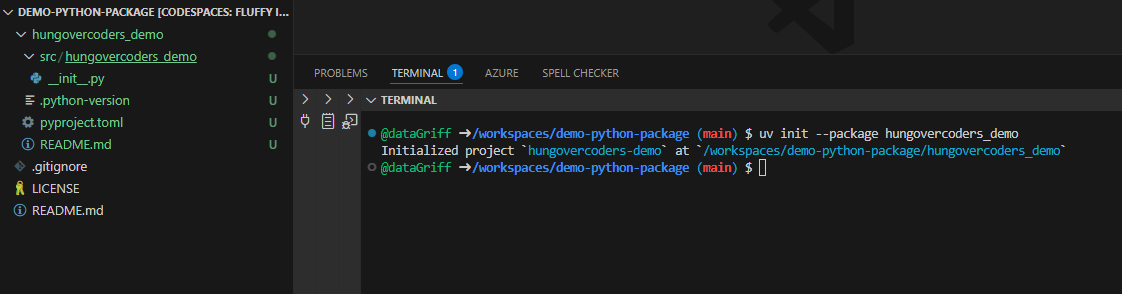
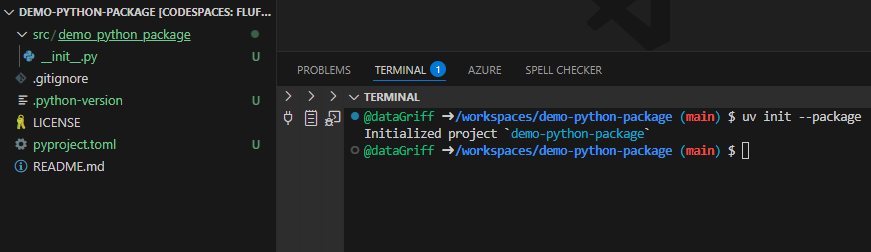
Refactor code structure for improved readability and maintainability

diff --git a/docs/_posts/2025-08-15-simplify-python-package-development-with-uv-and-taskfile/2025-08-15-simplify-python-package-development-with-uv-and-taskfile.md b/docs/_posts/2025-08-15-simplify-python-package-development-with-uv-and-taskfile/2025-08-15-simplify-python-package-development-with-uv-and-taskfile.md
@@ -51,10 +51,12 @@ uv --version
 Next create your package using the `--package` argument for your uv init command. This means you are creating package.
 
 ```bash
-uv init --package hungovercoders_demo
+uv init --package
 ```
 
 ![UV Install]({{ site.baseurl }}/assets/2025-08-15-simplify-python-package-development-with-uv-and-taskfile/uv_initiate_package.PNG)
+
+You can provide a name for the package as an argument as well, but I have deliberately not provided one so that toml file ends up in the root along with the src directory. This does mean your github repo naming is important to reflect the name of the package. This later allows us to treat the github repo directly as a package and we can install from it using pip install without needing to publish to pypi. This is very handy for a quick turnaround and testing of our package!
 
 You can also initiate apps, libraries or completely bare python projects using uv. Use the following command to see what's on offer.
 
@@ -62,7 +64,82 @@ You can also initiate apps, libraries or completely bare python projects using u
 uv init --help
 ```
 
-### Add some Code to the Package
+### Run the package locally
+
+The package comes initiated with one main method in the code `src/hungovercoders_demo/__init__.py`
+
+```python
+def main() -> None:
+    print("Hello from demo-python-package!")
+```
+
+To try this out we can run the package using uv
+
+```bash
+uv run demo-python-package
+```
+
+![UV Run Package]({{ site.baseurl }}/assets/2025-08-15-simplify-python-package-development-with-uv-and-taskfile/uv_run_package.PNG)
+
+Uv will automatically create a virtual environment for you (woop! woop!) and create a uv.lock file. The uv.lock file will ensure consistent environments for anyone who uses your package.
+
+### Convert the Package into a CLI
+
+Next we're going to convert the package into a CLI. Keeping this simple for the demo we'll leverage the simple greetings package laid out in [packaging python]({:target="_blank"}){:target="\_blank"} - [creating and packaging command-line tools](https://packaging.python.org/en/latest/guides/creating-command-line-tools/){:target="\_blank"}, and tweak it to make it slightly simpler. The package will leverage the [typer](https://typer.tiangolo.com/){:target="\_blank"} library which makes creating a CLI tool even easier.
+
+First create a `greetings.py` file and add the following code
+
+```python
+import typer
+from typing_extensions import Annotated
+
+
+def greet(
+    name: Annotated[str, typer.Option(help="The name of the person to greet")] = ""
+):
+    greeting = f"Hello {name}!"
+    print(greeting)
+```
+
+This means we're going to expose a command called greet that takes a `--name` option as a parameter then prints this out to the terminal.
+
+Then add a `cli.py` file and add the following code
+
+```python
+import typer
+
+from .greetings import greet
+
+
+app = typer.Typer()
+app.command()(greet)
+
+
+if __name__ == "__main__":
+    app()
+```
+
+This means we're creating a typer application and adding the greet command we defined in greetings. We're then going to expose this typer application through our main entry point.
+
+Then add a `main.py` file and add the following code
+
+```python
+if __name__ == "__main__":
+    from demo_python_package.cli import app
+    app()
+```
+
+This imports the app into the main entry point and allows us to run the CLI.
+
+We'll remove all the code from the `__init__.py` file. We still need the file to mark the directory as a package.
+
+We then need to update the `pyproject.toml` file to include an entry point for the script and include a dependency on [typer](https://typer.tiangolo.com/){:target="\_blank"}.
+
+Finally to install and test the cli locally we can run the following
+
+```bash
+
+```
 
 ### Lint the Package
 
